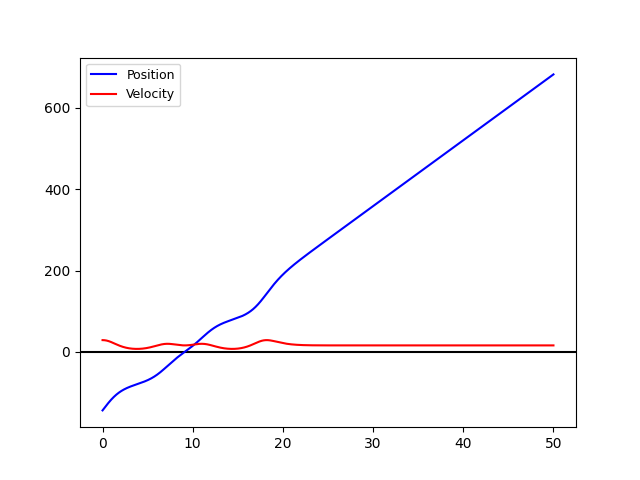
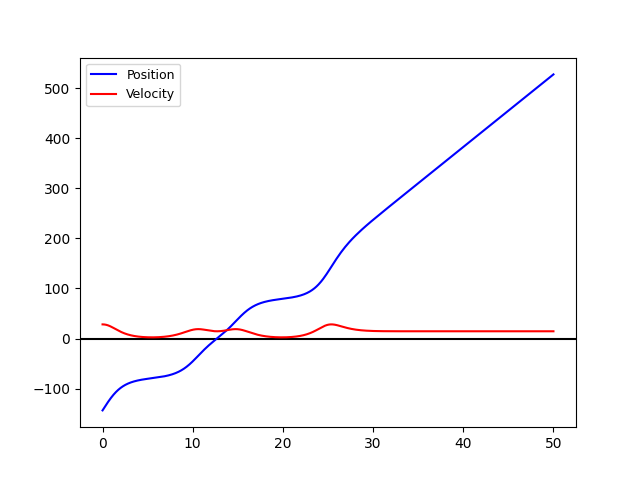
For some reason V0 does not match between mine and maddies code but if i change either of them it breaks so i have just left them seperate. All of the graphs look correct tho

diff --git a/Q4Leap.py b/Q4Leap.py
@@ -2,7 +2,7 @@ from Q4Func import *
 from Q4Ucrit import *
 from Leapfrog_Timestepping_Code import *
 
-c = 1
+c = 0.1
 h = 0.0001
 stop_t = 50
 leapfrog_method(eq1, U_crit - c, h, stop_t, "./Lesser_U.png", "a")

diff --git a/Q4Ucrit.py b/Q4Ucrit.py
@@ -25,3 +25,5 @@ E_crit = V(eq2)
 #Rearranging for U
 
 U_crit = sqrt((2/m)*(E_crit-V(eq1)))
+
+print("U_crit:",U_crit)
